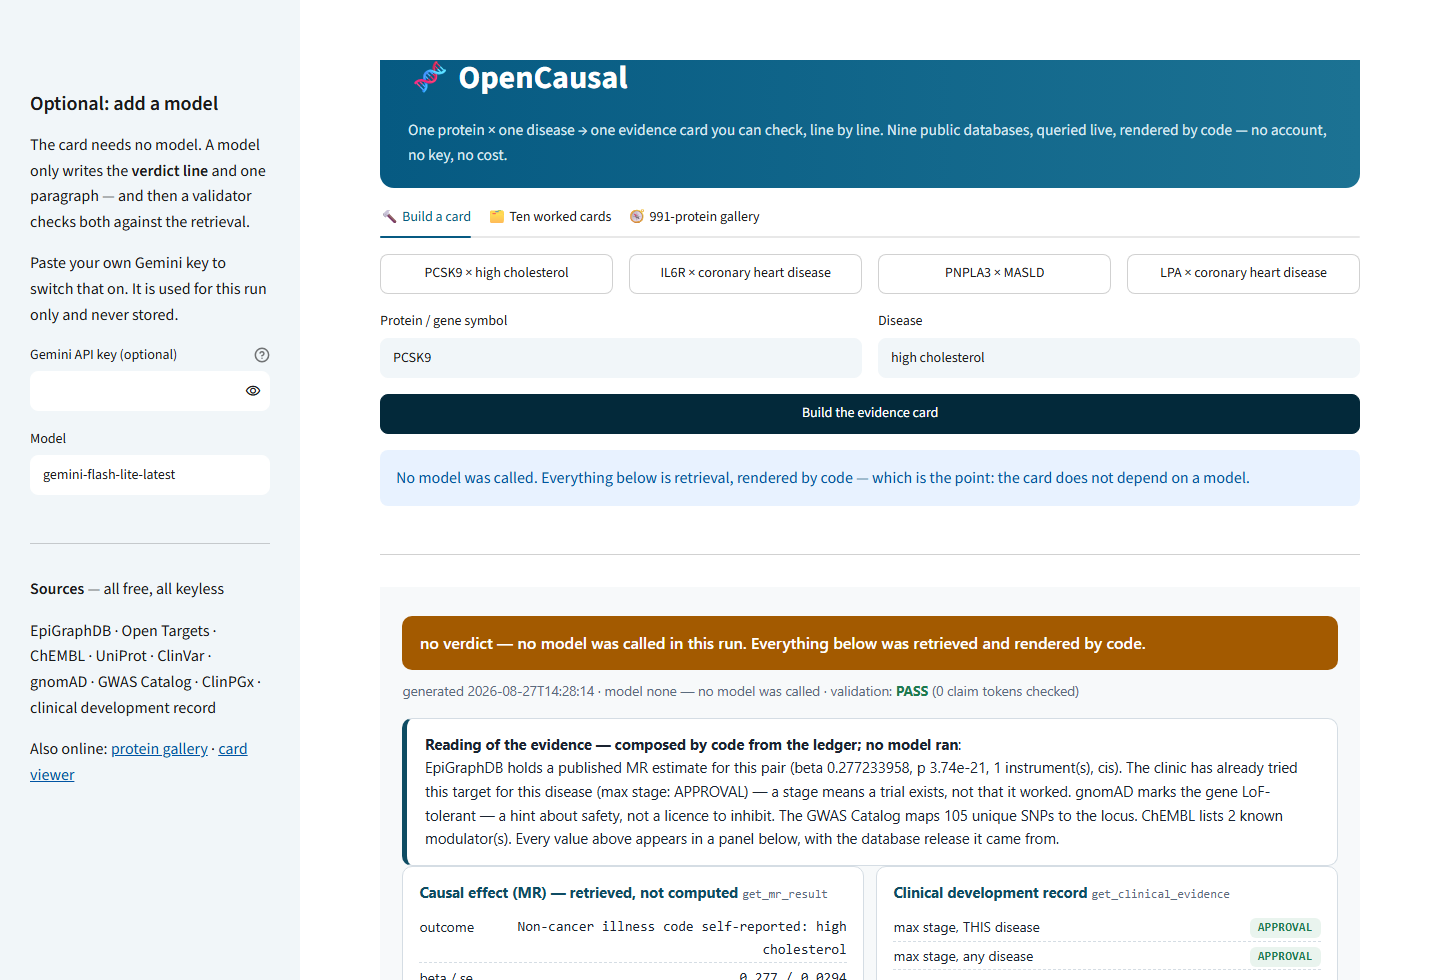
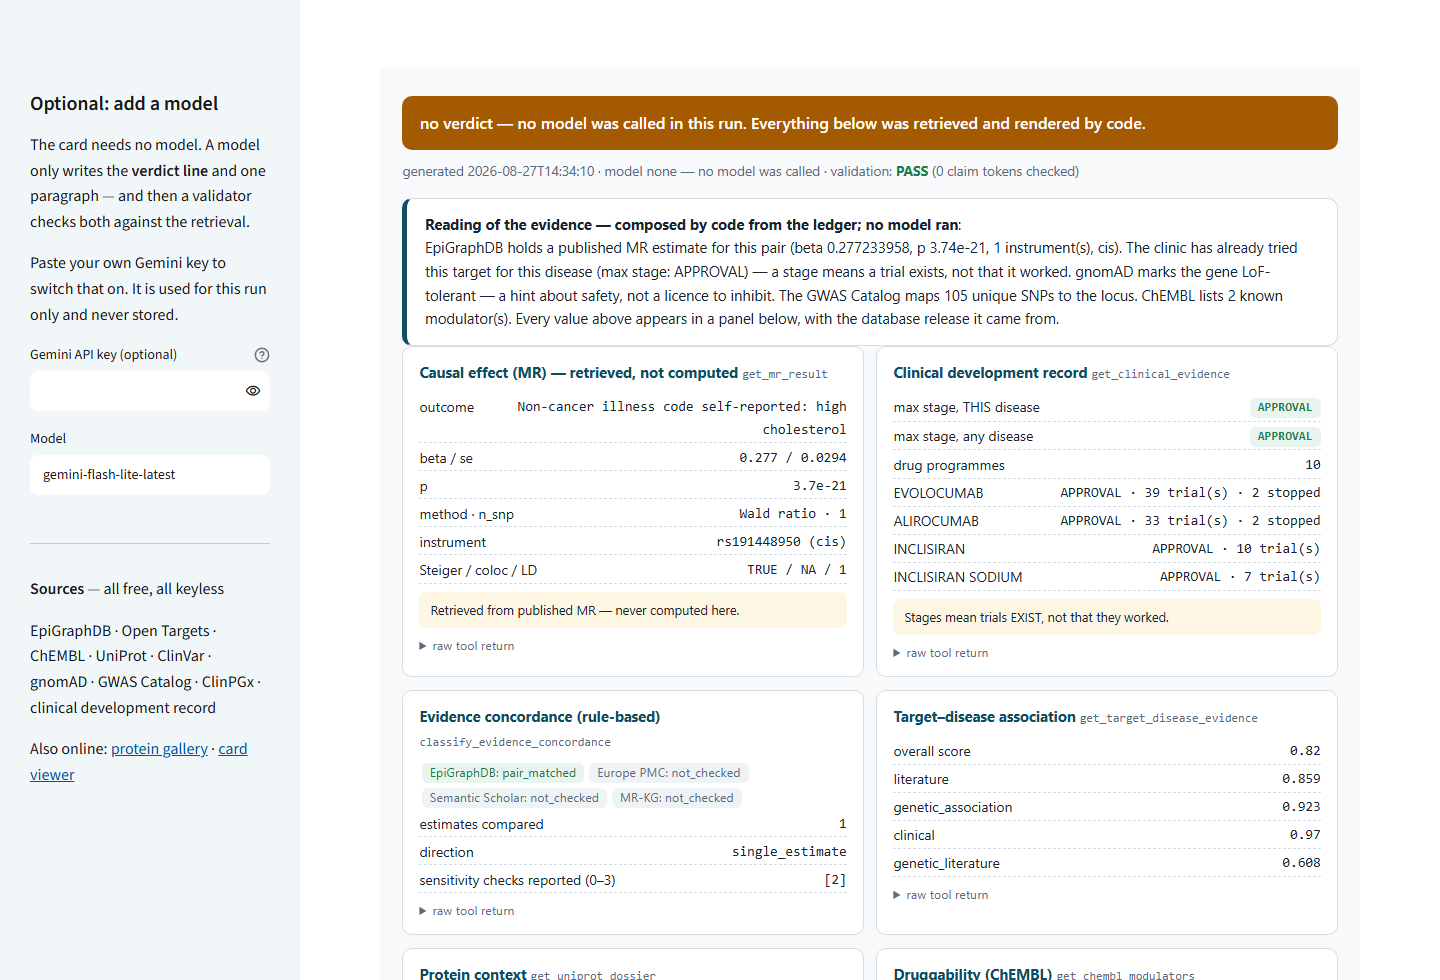
README: six-shot screenshot tour of the v0.6 app - card, live figures, worked cards, timelines, gallery, build tab
app_screenshot.py now captures the whole product in one run.

Changed region(s): [[0.25, 0.0612, 0.9688, 1.0], [0.2812, 0.9796, 0.4688, 1.0], [0.875, 0.9184, 0.9062, 0.9796]]

diff --git a/app_screenshot.py b/app_screenshot.py
@@ -1,23 +1,80 @@
 # -*- coding: utf-8 -*-
-"""Screenshot the running OpenCausal app (localhost:8501) for README + deck."""
+"""Screenshot tour of the running OpenCausal app (localhost:8501) for README + deck.
+
+Captures the whole product, one shot per surface:
+  app_01_home.png      the build tab before a run
+  app_02_card.png      a freshly built card — verdict, code-written reading, panels
+  app_03_figures.png   the two live figures under the card (forest + constraint)
+  app_04_viewer.png    the ten worked cards, viewer engine
+  app_05_timeline.png  the hand-verified genetics -> clinic timelines
+  app_06_gallery.png   the 991-protein gallery
+"""
 from playwright.sync_api import sync_playwright
 
 URL = "http://localhost:8501"
 OUT = "figs"
+VIEW = {"width": 1440, "height": 980}
+
+
+def viewer_frame(page):
+    """The component iframe that carries the viewer engine (has a #card node)."""
+    for f in page.frames:
+        if f == page.main_frame:
+            continue
+        try:
+            if f.locator("#card").count():
+                return f
+        except Exception:
+            continue
+    return None
+
 
 with sync_playwright() as p:
     browser = p.chromium.launch()
-    page = browser.new_page(viewport={"width": 1440, "height": 980})
+    page = browser.new_page(viewport=VIEW)
     page.goto(URL, wait_until="networkidle")
     page.wait_for_timeout(3000)
 
+    # 1 — home
     page.screenshot(path=f"{OUT}/app_01_home.png")
     print("saved app_01_home.png")
 
+    # 2 — build a card, wait for the download button that ends the run
     page.get_by_role("button", name="Build the evidence card").click()
     page.get_by_text("Download this card", exact=False).first.wait_for(timeout=180_000)
     page.wait_for_timeout(2500)
+    page.mouse.wheel(0, 520)
+    page.wait_for_timeout(600)
     page.screenshot(path=f"{OUT}/app_02_card.png")
     print("saved app_02_card.png")
+
+    # 3 — the figures expander sits below the embedded card
+    figs = page.get_by_text("Figures — drawn from tool output", exact=False).first
+    figs.scroll_into_view_if_needed()
+    page.wait_for_timeout(2500)
+    page.screenshot(path=f"{OUT}/app_03_figures.png")
+    print("saved app_03_figures.png")
+
+    # 4 — ten worked cards (viewer engine, GO banner on top)
+    page.get_by_role("tab", name="Ten worked cards").click()
+    page.wait_for_timeout(5000)
+    page.screenshot(path=f"{OUT}/app_04_viewer.png")
+    print("saved app_04_viewer.png")
+
+    # 5 — the genetics -> clinic timelines inside the embedded viewer
+    fr = viewer_frame(page)
+    if fr:
+        fr.locator('button.tab[data-tab="timeline"]').click()
+        page.wait_for_timeout(1500)
+        fr.locator(".tl-case").first.scroll_into_view_if_needed()
+        page.wait_for_timeout(600)
+        page.screenshot(path=f"{OUT}/app_05_timeline.png")
+        print("saved app_05_timeline.png")
+
+    # 6 — the 991-protein gallery
+    page.get_by_role("tab", name="991-protein gallery").click()
+    page.wait_for_timeout(5000)
+    page.screenshot(path=f"{OUT}/app_06_gallery.png")
+    print("saved app_06_gallery.png")
 
     browser.close()

diff --git a/README.md b/README.md
@@ -52,7 +52,20 @@ one-line verdict and one paragraph. Paste your own free
 never stored) to add those two sentences — and watch the validator check them on the
 page.
 
-![The web app building a card](figs/app_02_card.png)
+One app, three tabs — build your own card, browse the ten worked cards, and open
+any of the 991 protein dossiers:
+
+| ![A freshly built card](figs/app_02_card.png) | ![The two live figures under the card](figs/app_03_figures.png) |
+|---|---|
+| *a freshly built card — verdict, a code-written reading of the evidence, then one panel per tool* | *under every card: the forest of retrieved MR estimates and the gnomAD constraint figure, drawn live* |
+
+| ![The ten worked cards](figs/app_04_viewer.png) | ![Genetics-to-clinic timelines](figs/app_05_timeline.png) |
+|---|---|
+| *the ten worked cards, same panel-per-tool engine* | *hand-verified genetics → clinic timelines — genetic evidence precedes the clinic's verdict by a decade* |
+
+| ![The 991-protein gallery](figs/app_06_gallery.png) | ![The build tab](figs/app_01_home.png) |
+|---|---|
+| *the 991-protein gallery: filterable index, dossiers rendered in-app* | *the build tab — type any pair, no key needed* |
 
 The figures are drawn from tool output too — nothing on these axes is typed in by hand:
 
